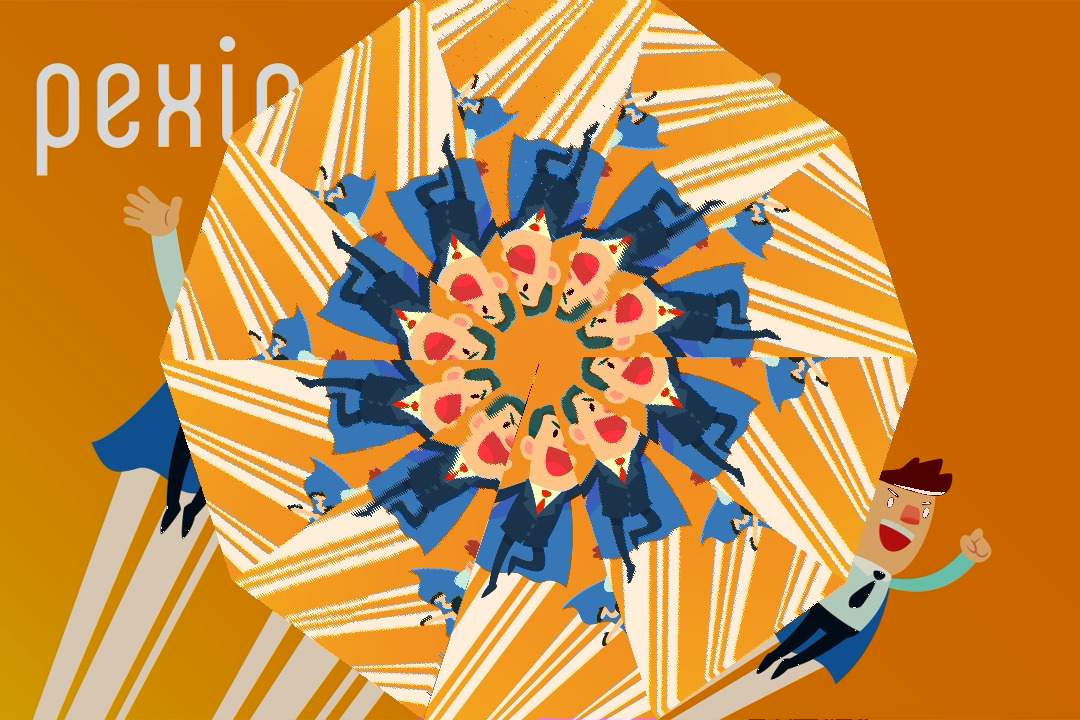
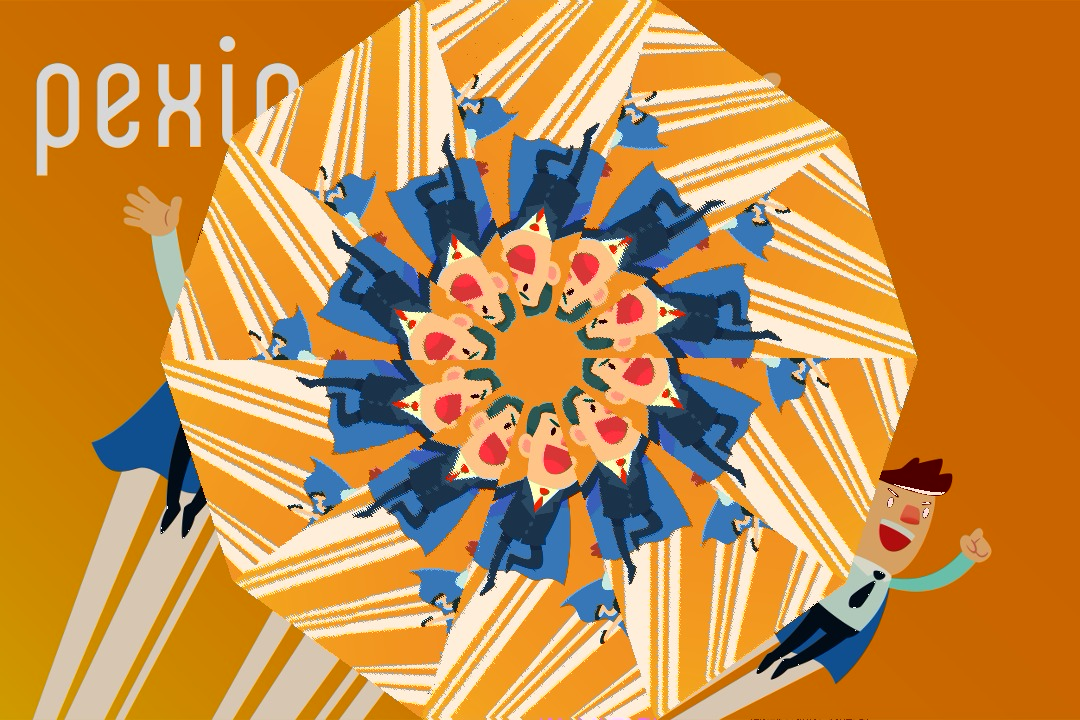
feat: First solution to the kaleidoscope quiz

diff --git a/my_library.c b/my_library.c
@@ -68,12 +68,12 @@ void my_crazy_function(uint8_t *yuvbuf_in, int width, int height,
 }
 
 /**
- * my_function
+ * kaleidoscope
  *
- * Implements the kaleidoscope effect with adjustable number of sectors
+ * Implements the kaleidoscope effect with an adjustable number of sectors
  */
-void my_function(uint8_t *yuvbuf_in, int width, int height,
-                 uint8_t *yuvbuf_out, int n_sectors) {
+void kaleidoscope(uint8_t *yuvbuf_in, int width, int height,
+                  uint8_t *yuvbuf_out, int n_sectors) {
 
   //---------------------------------------------------------------------------
   // Local variables
@@ -148,8 +148,8 @@ void my_function(uint8_t *yuvbuf_in, int width, int height,
       yuvbuf_out[v_off + uv_idx] = v;
 
       // 3. Clone the pixel to all other sectors
-      clone_pixel(yuvbuf_out, width, height, w_dst, h_dst, fi, n_sectors, y,
-                    u, v, u_off, v_off);
+      clone_pixel(yuvbuf_out, width, height, w_dst, h_dst, fi, n_sectors, y, u,
+                  v, u_off, v_off);
     } // End inner for - right triangle
 
     // 2.2 Print the left normal part of the triangle
@@ -178,8 +178,8 @@ void my_function(uint8_t *yuvbuf_in, int width, int height,
       yuvbuf_out[v_off + uv_idx] = v;
 
       // 3. Clone the pixel to all other sectors
-      clone_pixel(yuvbuf_out, width, height, w_dst, h_dst, fi, n_sectors, y,
-                    u, v, u_off, v_off);
+      clone_pixel(yuvbuf_out, width, height, w_dst, h_dst, fi, n_sectors, y, u,
+                  v, u_off, v_off);
     } // End inner for - left triangle
   }   // End outer for
 }
@@ -206,8 +206,9 @@ void clone_pixel(uint8_t *yuvbuf, int width, int height, int w, int h,
   r = sqrt(w * w + h * h);
   theta = atan2(h, w);
 
-  // For all the sectors but the first one
-  for (int s = 1; s < n_sectors; ++s) {
+  // For all the sectors but the first one with a factor of 2 for
+  // optimisation on color smoothness in conjunction with item 6 below
+  for (int s = 1; s < n_sectors * 2; ++s) {
 
     // 3. Add the rotation factor to the angle and cover all quadrants!
     theta = (s % 2 != 0) ? theta + fi * s : theta - fi * s;
@@ -218,7 +219,7 @@ void clone_pixel(uint8_t *yuvbuf, int width, int height, int w, int h,
 
     // 6. Write each pixel in other sectors at the respective place and in
     //    close proximity to avoid atan2 pitholes
-    for (int i = 0; i < 4; ++i) {
+    for (int i = 0; i < 3; ++i) {
       uv_idx = (h_dst / 2) * (width / 2) + (w_dst / 2);
       yuvbuf[h_dst * width + w_dst] = y;
       yuvbuf[u_off + uv_idx] = u;

diff --git a/my_library.h b/my_library.h
@@ -6,12 +6,12 @@
 void my_crazy_function(uint8_t *yuvbuf_in, int width, int height,
                        uint8_t *yuvbuf_out);
 
-void my_function(uint8_t *yuvbuf_in, int width, int height,
-                 uint8_t *yuvbuf_out, int n_sectors);
+void kaleidoscope(uint8_t *yuvbuf_in, int width, int height,
+                  uint8_t *yuvbuf_out, int n_sectors);
 
 void clone_pixel(uint8_t *yuvbuf, int width, int height, int w, int h,
-                   double fi, int n_sectors, int y, int u, int v, int u_off,
-                   int v_off);
+                 double fi, int n_sectors, int y, int u, int v, int u_off,
+                 int v_off);
 
 void dim_image(uint8_t *yuvbuf, int width, int height, int f_dim);
 

diff --git a/main.c b/main.c
@@ -33,7 +33,7 @@ int main(int argc, char *argv[]) {
   }
 
   /* Call out to "my function" */
-  my_function(yuvbuf_in, width, height, yuvbuf_out, 24);
+  kaleidoscope(yuvbuf_in, width, height, yuvbuf_out, 10);
 
   write_i420_to_jpeg(yuvbuf_out, width, height, outpath);
 
